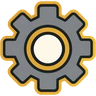
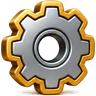
Icones : une troupe 3D, et le theme en dessin
Les sept objets 2D cedent la place a des personnages : le chien de
talus, le bouffon du joker, le tableau d'affichage, la chope du
comptoir. Maintenant que le libelle est sous chaque onglet, l'icone n'a
plus a expliquer la page, elle a a l'identifier — et on identifie une
tache de couleur, pas un dessin lu a 26 pixels.

Six couleurs dominantes differentes se suivent desormais dans la barre,
la ou quatre icones or et creme se touchaient. Mesure sur le vert, la
part lisible de chaque dessin va de 65 a 94 %, contre 54 a 66 % pour la
serie precedente.

Les emojis du bouton de theme deviennent un soleil et une lune dessines
par le site : un emoji est rendu par le systeme, donc different sur
chaque appareil et etranger au trait de la barre.

Claude-Session: https://claude.ai/code/session_01KEKw1XYdjm2ogFx4vjwuJM

diff --git a/frontend/src/components/Navbar.jsx b/frontend/src/components/Navbar.jsx
@@ -263,12 +263,22 @@ export default function Navbar() {
               <IconeNav nom={admin.icone} taille={22} />
             </Link>
 
+            {/* Le bouton de theme montre la destination, pas l'etat courant :
+                en theme nuit il affiche le soleil, parce qu'un bouton promet
+                ce qu'il va faire. C'etait deja le cas avec les emojis, et c'est
+                la seule convention qui ne se discute pas — un interrupteur
+                marque « allumer » quand la lumiere est eteinte.
+
+                Les emojis ☀ et 🌙 cedent la place a deux dessins du site. Un
+                emoji n'est pas dessine par la page mais par le systeme : il
+                n'avait donc pas le meme trait sur un iPhone, sur Android et sur
+                Windows, et surtout pas celui du reste de la barre. */}
             <button
               onClick={toggleTheme}
               title={theme === 'nuit' ? 'Passer en clair' : 'Passer en sombre'}
-              className="nav-dim hover:bg-white/10 rounded-md px-1.5 sm:px-2 py-1.5 text-sm transition-colors"
+              className="hover:bg-white/10 rounded-md px-1 py-1 transition-colors"
             >
-              {theme === 'nuit' ? '☀' : '🌙'}
+              <IconeNav nom={theme === 'nuit' ? 'soleil' : 'lune'} taille={22} />
             </button>
 
             {/* La pastille mène au profil : c'est l'endroit où on la cherche. */}
